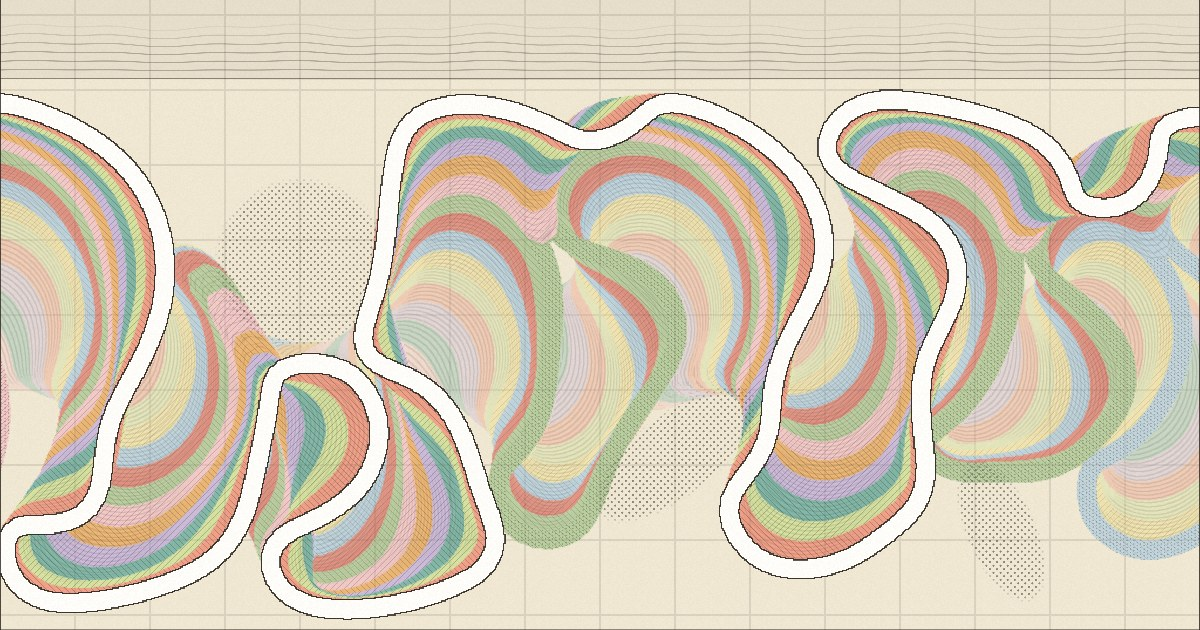
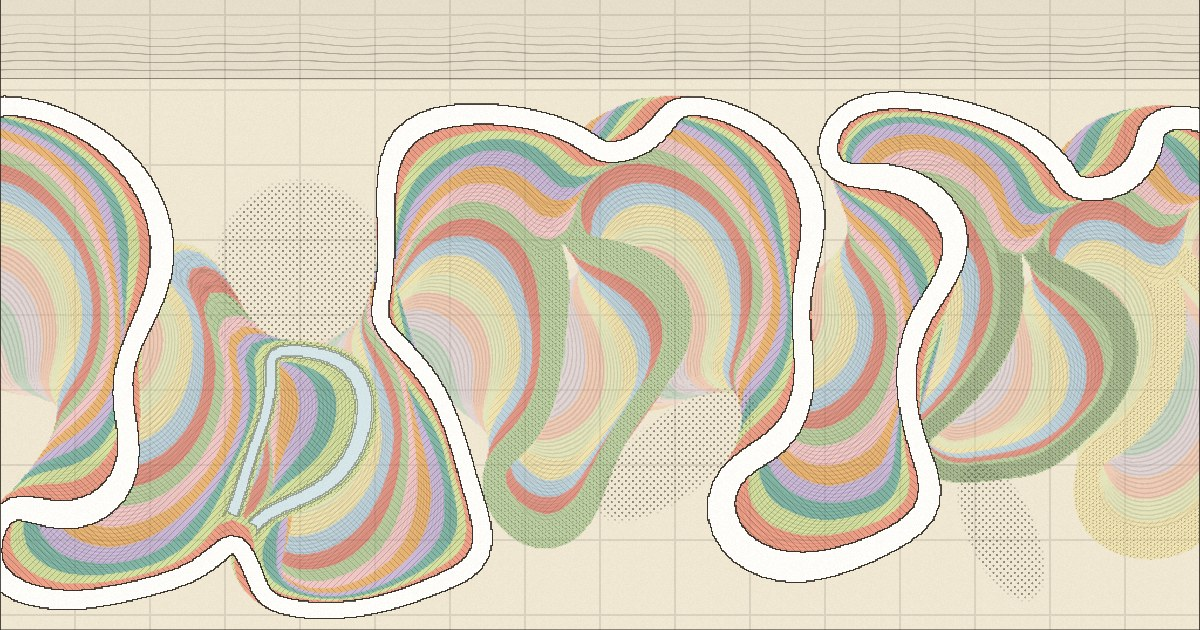
Let No. 022's river widen where its banks move fast
The river's width now changes along its length: it swells at its quick
bends and draws in where a wall, hard ground or a straight reach holds
it, after Eke and others (2014). Cut-offs, hard ground and old loops
use the width.

Changed region(s): [[0.0, 0.1206, 1.0, 0.9952]]

diff --git a/works/022/river.js b/works/022/river.js
@@ -37,6 +37,7 @@
     stiff: 0.1,      // and how fast it cuts the hard ground a valley starts with
     bend: 9.5,       // a river's bends come about this many widths apart, divided by alpha
     pace: 1,         // see kl in character()
+    widest: 2.1,     // a river is never drawn wider than this many of its usual widths
   };
 
   // a small seeded generator (mulberry32)
@@ -103,6 +104,8 @@
       const rx = lam * (0.16 + 0.34 * r()), px = C.long * (0.06 + 0.88 * r()), [top, bottom] = walls(C, px);
       C.hard.push([px, (top + bottom) / 2 + (top - bottom) / 2 * 0.7 * (r() * 2 - 1), rx, rx * (0.4 + 0.6 * r()), r() * Math.PI]);
     }
+    // how much the river widens where its banks move fast: 0 would be the same width everywhere
+    C.swell = 0.5 + 0.7 * r();
     return C;
   }
 
@@ -111,11 +114,13 @@
     const size = C.long <= 62 ? 'A broad river' : C.long >= 98 ? 'A small river' : 'A river';
     const has = [];
     if (C.alpha <= 0.62) has.push('long, sweeping bends'); else if (C.alpha >= 1.02) has.push('tight bends');
+    if (C.swell >= 0.97) has.push('wide bends');
     if (C.age <= 1.65) has.push('slow banks'); else if (C.age >= 2.45) has.push('restless banks');
     const quick = C.neck > 1.6 ? (has.length ? ', quick to cut its loops off,' : ' that is quick to cut its loops off,') : '';
     const valley = C.half <= 0.8 * C.lam ? 'a narrow valley' : C.half >= 1.9 * C.lam ? 'a wide valley' : 'its valley';
     const n = Math.min(4, C.hard.length), hard = n ? ` with ${['', 'one patch', 'two patches', 'three patches', 'four patches'][n]} of hard ground` : '';
-    return `${size}${has.length ? ' with ' + has.join(' and ') : ''}${quick} in ${valley}${hard}.`;
+    const list = has.length > 2 ? has.slice(0, -1).join(', ') + ' and ' + has[has.length - 1] : has.join(' and ');
+    return `${size}${has.length ? ' with ' + list : ''}${quick} in ${valley}${hard}.`;
   }
 
   // the valley's two walls at a place along it: [upper, lower], measured from the sheet's middle line
@@ -134,6 +139,9 @@
     let x = new Float64Array(cap), y = new Float64Array(cap);
     let nx = new Float64Array(cap), ny = new Float64Array(cap);
     let r0 = new Float64Array(cap), r1 = new Float64Array(cap), ds = new Float64Array(cap);
+    // how wide the river is at each point, in its usual widths: it starts at its narrowest
+    const rest = 1 - 0.25 * C.swell;
+    let wd = new Float64Array(cap).fill(rest), nw = new Float64Array(cap);
 
     // down the middle of its valley, nearly: a few long, low waves of chance
     const waves = [];
@@ -148,8 +156,9 @@
       y[i] = (a + b) / 2 + C.rough * (C.lam / 13) * v / total * 2 * smooth(0, 8, s) * smooth(0, 8, span - s);
     }
 
-    // a grid of cells one neck wide, to find reaches that have come together
-    const gx0 = -C.lead - 20, gy0 = -C.wide / 2 - 10, gw = Math.ceil((span + 40) / C.neck), gh = Math.ceil((C.wide + 20) / C.neck);
+    // a grid of cells as wide as the farthest two reaches can be and still count as touching
+    const reachOf = C.neck * C.widest;
+    const gx0 = -C.lead - 20, gy0 = -C.wide / 2 - 10, gw = Math.ceil((span + 40) / reachOf), gh = Math.ceil((C.wide + 20) / reachOf);
     const head = new Int32Array(gw * gh);
     let next = new Int32Array(cap);
     // and a grid of half-width cells that remembers where a cut-off loop lies, and since when
@@ -181,6 +190,7 @@
       const bigger = (a) => { const b = new Float64Array(cap); b.set(a); return b; };
       x = bigger(x); y = bigger(y); nx = new Float64Array(cap); ny = new Float64Array(cap);
       r0 = new Float64Array(cap); r1 = new Float64Array(cap); ds = new Float64Array(cap);
+      wd = bigger(wd); nw = new Float64Array(cap);
       next = new Int32Array(cap);
     }
 
@@ -214,20 +224,29 @@
       for (let i = 1; i < n - 1; i++) {
         const tx = x[i + 1] - x[i - 1], ty = y[i + 1] - y[i - 1], l = Math.hypot(tx, ty) || 1;
         const sign = r1[i] < 0 ? -1 : 1, ox = sign * ty / l, oy = -sign * tx / l;
-        // the bank being cut is three quarters of a width that way: how soft is it there?
-        let go = Math.abs(r1[i]) * soft(x[i] + ox * 0.75, y[i] + oy * 0.75);
+        // the bank being cut is a quarter of a width beyond the water's edge that way: how soft is it there?
+        const edge = wd[i] * 0.5;
+        let go = Math.abs(r1[i]) * soft(x[i] + ox * (edge + 0.25), y[i] + oy * (edge + 0.25));
         // the valley's walls: a bank cutting toward one slows to nothing
         if (oy !== 0) {
           const [a, b] = walls(C, x[i]);
-          go *= smooth(0, 3, oy > 0 ? a - y[i] : y[i] - b);
+          go *= smooth(0, 3, (oy > 0 ? a - y[i] : y[i] - b) - (edge - 0.5));
         }
         if (go > fastest) fastest = go;
+        // the river widens where a bank is cut faster than the far bank can build out, and
+        // narrows again where it is held: it leans toward the width that its speed asks for
+        const want = rest + 1.3 * C.swell * smooth(0, 0.24 * C.kl, go);
+        nw[i] = wd[i] + (want - wd[i]) * Math.min(1, dt * C.kl / 3);
         nx[i] = x[i] + ox * go * dt;
         ny[i] = y[i] + oy * go * dt;
         const ci = clayAt(x[i], y[i]);
         if (ci >= 0) clay[ci] = -1;       // where the river runs, it has taken the clay away
       }
       for (let i = 1; i < n - 1; i++) { x[i] = nx[i]; y[i] = ny[i]; }
+      // and its width changes smoothly along it
+      for (let i = 1; i < n - 1; i++) wd[i] = Math.min(C.widest, Math.max(0.6, nw[i]));
+      for (let i = 1; i < n - 1; i++) nw[i] = wd[i] + 0.22 * (wd[i - 1] - 2 * wd[i] + wd[i + 1]);
+      for (let i = 1; i < n - 1; i++) wd[i] = nw[i];
       // take out kinks a point or two long, which the rule above cannot see
       const q = C.iron;
       for (let i = 2; i < n - 2; i++) {
@@ -241,7 +260,7 @@
     // two have closed up
     function space() {
       let m = 0;
-      nx[m] = x[0]; ny[m] = y[0]; m++;
+      nx[m] = x[0]; ny[m] = y[0]; nw[m] = wd[0]; m++;
       for (let i = 1; i < n; i++) {
         const px = nx[m - 1], py = ny[m - 1];
         const d = Math.hypot(x[i] - px, y[i] - py);
@@ -255,33 +274,35 @@
             nx[m] = (-x[i0] + 9 * x[i - 1] + 9 * x[i] - x[i3]) / 16;
             ny[m] = (-y[i0] + 9 * y[i - 1] + 9 * y[i] - y[i3]) / 16;
           } else { nx[m] = (px + x[i]) / 2; ny[m] = (py + y[i]) / 2; }
+          nw[m] = (nw[m - 1] + wd[i]) / 2;
           m++;
         }
         if (m + 1 >= cap) return false;
-        nx[m] = x[i]; ny[m] = y[i]; m++;
+        nx[m] = x[i]; ny[m] = y[i]; nw[m] = wd[i]; m++;
       }
-      for (let i = 0; i < m; i++) { x[i] = nx[i]; y[i] = ny[i]; }
+      for (let i = 0; i < m; i++) { x[i] = nx[i]; y[i] = ny[i]; wd[i] = nw[i]; }
       n = m;
       return true;
     }
 
-    // find the first place two reaches touch, and take the short way
+    // find the first place two reaches touch, and take the short way. Two points touch when
+    // they are within C.neck of the mean of the river's widths at them, and the river runs
+    // some way between them: a tight bend is not a neck.
     function cut() {
-      // two points close together are a neck only if the river runs some way between them
-      const near = C.neck * C.neck, far = (3 + 2.2 * C.neck) / C.h;
       for (let again = 0; again < 8; again++) {
         head.fill(-1);
         let a = -1, b = -1;
         for (let i = 0; i < n && a < 0; i++) {
-          const cx = Math.max(0, Math.min(gw - 1, Math.floor((x[i] - gx0) / C.neck)));
-          const cy = Math.max(0, Math.min(gh - 1, Math.floor((y[i] - gy0) / C.neck)));
-          let best = near;
+          const cx = Math.max(0, Math.min(gw - 1, Math.floor((x[i] - gx0) / reachOf)));
+          const cy = Math.max(0, Math.min(gh - 1, Math.floor((y[i] - gy0) / reachOf)));
+          let best = 1;
           for (let dy = -1; dy <= 1; dy++) for (let dx = -1; dx <= 1; dx++) {
             const gx = cx + dx, gy = cy + dy;
             if (gx < 0 || gy < 0 || gx >= gw || gy >= gh) continue;
             for (let j = head[gy * gw + gx]; j >= 0; j = next[j]) {
-              if (i - j <= far) continue;
-              const d = (x[i] - x[j]) * (x[i] - x[j]) + (y[i] - y[j]) * (y[i] - y[j]);
+              const near = C.neck * (wd[i] + wd[j]) / 2;
+              if (i - j <= (3 + 2.2 * near) / C.h) continue;
+              const d = ((x[i] - x[j]) * (x[i] - x[j]) + (y[i] - y[j]) * (y[i] - y[j])) / (near * near);
               if (d < best) { best = d; a = j; b = i; }
             }
           }
@@ -289,21 +310,24 @@
           next[i] = head[cell]; head[cell] = i;
         }
         if (a < 0) break;
-        cuts.push({ year, x: Float32Array.from(x.subarray(a, b + 1)), y: Float32Array.from(y.subarray(a, b + 1)) });
+        cuts.push({ year, x: Float32Array.from(x.subarray(a, b + 1)), y: Float32Array.from(y.subarray(a, b + 1)), w: Float32Array.from(wd.subarray(a, b + 1)) });
         // clay begins to settle in the loop left behind, away from its two ends
-        for (let i = a + 4; i < b - 3; i++) for (let dy = -1; dy <= 1; dy++) for (let dx = -1; dx <= 1; dx++) {
-          if (dx && dy) continue;
-          const ci = clayAt(x[i] + dx * 0.5, y[i] + dy * 0.5);
-          if (ci >= 0) clay[ci] = year;
+        for (let i = a + 4; i < b - 3; i++) {
+          const R = Math.ceil(wd[i]);
+          for (let dy = -R; dy <= R; dy++) for (let dx = -R; dx <= R; dx++) {
+            if (dx * dx + dy * dy > R * R) continue;
+            const ci = clayAt(x[i] + dx * 0.5, y[i] + dy * 0.5);
+            if (ci >= 0) clay[ci] = year;
+          }
         }
-        x.copyWithin(a + 1, b, n); y.copyWithin(a + 1, b, n);
+        x.copyWithin(a + 1, b, n); y.copyWithin(a + 1, b, n); wd.copyWithin(a + 1, b, n);
         n -= b - a - 1;
       }
     }
 
     return {
       C,
-      get n() { return n; }, get x() { return x; }, get y() { return y; },
+      get n() { return n; }, get x() { return x; }, get y() { return y; }, get w() { return wd; },
       get year() { return year; }, get length() { return length; }, cuts, soft,
       // the most any point has moved in a year
       get fastest() { return fastest; },
@@ -376,14 +400,15 @@
       }
     }
 
-    // the channel as a ribbon `half` widths to each side of the line through (x, y)
-    function ribbon(x, y, n, half) {
+    // the channel as a ribbon: at each point of the line through (x, y), `part` of half the
+    // river's width there to each side
+    function ribbon(x, y, w, n, part) {
       const per = C.per, oy = C.wide / 2;
       let lx = 0, ly = 0, rx = 0, ry = 0;
       for (let i = 0; i < n; i++) {
         const i0 = i > 0 ? i - 1 : 0, i1 = i < n - 1 ? i + 1 : n - 1;
         const tx = x[i1] - x[i0], ty = y[i1] - y[i0], l = Math.hypot(tx, ty) || 1;
-        const ox = -ty / l * half, oyv = tx / l * half;
+        const half = 0.5 * w[i] * part, ox = -ty / l * half, oyv = tx / l * half;
         const Lx = (x[i] + ox) * per, Ly = (y[i] + oyv + oy) * per, Rx = (x[i] - ox) * per, Ry = (y[i] - oyv + oy) * per;
         if (i > 0 && !(Math.max(Lx, Rx, lx, rx) < 0 || Math.min(Lx, Rx, lx, rx) > cols || Math.max(Ly, Ry, ly, ry) < 0 || Math.min(Ly, Ry, ly, ry) > rows)) {
           tri(lx, ly, Lx, Ly, Rx, Ry);
@@ -397,14 +422,14 @@
       cols, rows,
       get head() { return head; }, get pool() { return pool; },
       // the river as it is at this look
-      stamp(n, x, y, points) {
+      stamp(n, x, y, w, points) {
         look = n; prev = n === 0 ? NONE : n - 1; marking = false;
-        ribbon(x, y, points, 0.5);
+        ribbon(x, y, w, points, 1);
       },
       // a loop just cut off: mark its cells, in bands from the banks to the middle
-      abandon(n, x, y) {
+      abandon(n, x, y, w) {
         look = n; marking = true;
-        for (band = 1; band <= C.fill; band++) ribbon(x, y, x.length, 0.5 * (C.fill - band + 1) / C.fill);
+        for (band = 1; band <= C.fill; band++) ribbon(x, y, w, x.length, (C.fill - band + 1) / C.fill);
         marking = false;
       },
       // after the last look: close every visit, and gather each cell's visits together
@@ -437,7 +462,7 @@
     const stats = { winding: new Float32Array(looks + 1), cuts: new Uint16Array(looks + 1) };
     let cutsDone = 0, onSheet = 0;
     const inSheet = (c) => { for (let i = 0; i < c.x.length; i++) if (c.x[i] > 0 && c.x[i] < C.long && Math.abs(c.y[i]) < C.wide / 2) return true; return false; };
-    sheet.stamp(0, ch.x, ch.y, ch.n);
+    sheet.stamp(0, ch.x, ch.y, ch.w, ch.n);
     stats.winding[0] = ch.winding;
     return {
       seed, C, channel: ch, sheet, stats, looks,
@@ -453,10 +478,10 @@
             const c = ch.cuts[cutsDone++];
             c.sheet = inSheet(c);
             if (c.sheet) onSheet++;
-            sheet.abandon(n, c.x, c.y);
+            sheet.abandon(n, c.x, c.y, c.w);
           }
           if (ch.year % C.every === 0) {
-            sheet.stamp(n, ch.x, ch.y, ch.n);
+            sheet.stamp(n, ch.x, ch.y, ch.w, ch.n);
             stats.winding[n] = ch.winding; stats.cuts[n] = onSheet;
           }
           if (ch.year >= C.years) { sheet.finish(); return false; }

diff --git a/works/022/index.html b/works/022/index.html
@@ -270,7 +270,7 @@
         "@id": "https://mahiryavuz.com/#website"
       },
       "image": "https://mahiryavuz.com/works/022/og.jpg",
-      "description": "A river seen from above that moves across its valley for 2,000 years, eating its outer banks and cutting off its own loops, and inks the ground it leaves in the color of that century, the way Harold Fisk’s 1944 maps of the Mississippi show its old courses; drag the years back along the rail, point at a piece of ground to see when the river left it and where it ran that year, or open another river: every number from 1 to 99,999 draws one of its own, broad or small, slow or restless, in a valley with its own shape and its own patches of hard ground.",
+      "description": "A river seen from above that moves across its valley for 2,000 years, eating its outer banks, widening at its quickest bends and cutting off its own loops, and inks the ground it leaves in the color of that century, the way Harold Fisk’s 1944 maps of the Mississippi show its old courses; drag the years back along the rail, point at a piece of ground to see when the river left it and where it ran that year, or open another river: every number from 1 to 99,999 draws one of its own, broad or small, slow or restless, in a valley with its own shape and its own patches of hard ground.",
       "artMedium": "WebGL and a river simulation"
     },
     {
@@ -312,7 +312,7 @@
       <div class="where">
         <p class="status" id="status" role="status">This is a kept river: No. 3, in its year 2,000. With scripts on, the page runs a new river and plays its years.</p>
         <h2 class="year" id="year">Year 2,000</h2>
-        <p class="scalebar"><span class="scale" id="scale"></span><span>ten widths of the river</span></p>
+        <p class="scalebar"><span class="scale" id="scale"></span><span>ten of the river’s usual widths</span></p>
       </div>
 
       <div class="map">
@@ -359,8 +359,8 @@
       <div class="in">
         <div>
           <h2>What this is</h2>
-          <p>A river seen from above, in its valley. Each year every part of the river moves a little, toward the outside of its bend. The ground it gives up is inked in the color of the century in which it left, and printed paler as it ages. When the two sides of a loop come together, the river takes the short way; the loop keeps its water for a while and then closes up.</p>
-          <p>Nothing is stored. The number in the address is where the chance comes from, and it decides two things. One is the river’s character: how big it is on the sheet, how far upstream its bends take their lead from, how fast its banks move, how soon it cuts a loop off, the shape of its valley, and where the ground is hard. The other is the few low bends it starts with. The rest follows from the rule, and the same number always draws the same river.</p>
+          <p>A river seen from above, in its valley. Each year every part of the river moves a little, toward the outside of its bend. It is widest where its banks are moving fastest, and narrow where they are held. The ground it gives up is inked in the color of the century in which it left, and printed paler as it ages. When the two sides of a loop come together, the river takes the short way; the loop keeps its water for a while and then closes up.</p>
+          <p>Nothing is stored. The number in the address is where the chance comes from, and it decides two things. One is the river’s character: how big it is on the sheet, how far upstream its bends take their lead from, how fast its banks move, how much it widens at its bends, how soon it cuts a loop off, the shape of its valley, and where the ground is hard. The other is the few low bends it starts with. The rest follows from the rule, and the same number always draws the same river.</p>
         </div>
         <div>
           <h2>Fisk’s maps</h2>
@@ -370,13 +370,14 @@
         <div>
           <h2>The rule</h2>
           <p>It is the model of Alan Howard and Thomas Knutson, <a href="https://doi.org/10.1029/WR020i011p01659">“Sufficient conditions for river meandering: A simulation approach”</a>, 1984. A bank moves faster the tighter its bend, and fastest where the bend’s radius is about three widths of the river; in a tighter bend than that it slows again. And a bend is not moved by its own shape alone: each point moves by an average of the bends upstream of it, the near ones counting most. That second part is what makes bends lean downstream and grow into loops. The paper’s title says what it found: these two things are enough.</p>
+          <p>A river is not the same width all along. Where one bank is cut away faster than the other can build out behind it, the river widens. Esther Eke and others <a href="https://doi.org/10.1017/jfm.2014.556">modeled that in 2014</a>, and note that rivers which are wider at their bends tend to be the ones that move fastest. Here the width at each place leans toward what the bank’s speed there asks for, so a river swells at its quick bends and draws in where a wall, hard ground or a straight reach holds it.</p>
           <p>The ground is not all alike. A cut-off loop fills with fine clay, and set clay is slow to cut: Fisk reported in 1947 that such plugs hold the Mississippi’s bends back, and Tao Sun and others put them into <a href="https://doi.org/10.1029/96WR00998">a model like this one</a> in 1996. So here a river’s old loops get in the way of its new ones. Some valleys also start with patches of hard ground, which a bank cuts at a tenth of the usual rate.</p>
           <p>The whole 2,000 years are worked out in about a second when the page opens. What you watch is that record played back, which is why the years can be dragged back along the rail, and why pointing at a piece of ground can say when the river left it.</p>
         </div>
         <div>
           <h2>What it leaves out</h2>
-          <p>Floods. The short cuts a river makes across the inside of a bend, which Fisk’s sheets mark as chute cut-offs: here a loop is cut off when its two sides come within a set distance, which for most rivers means touching. And a river that gives up its whole course for a new one, as the Mississippi has done.</p>
-          <p>The paper’s own text could not be opened while this page was made. The rule here follows its abstract and <a href="https://github.com/zsylvester/meanderpy">meanderpy</a>, Zoltán Sylvester’s open program built on it, from which the two weights (−1 on a point’s own bend, 2.5 on the bends upstream) are taken. The rest are this page’s choices: how fast a tight bend slows, how long a cut-off loop holds water (about 400 years at its middle), how long its clay takes to set (150 years) and how slow it then is to cut (a fifth of the usual rate), and the range each river’s character is drawn from. So is the clock: the years are years because the fastest bank on any of these rivers moves about a sixteenth of the river’s width in one, and most move far less.</p>
+          <p>Floods. Islands and bars. The short cuts a river makes across the inside of a bend, which Fisk’s sheets mark as chute cut-offs: here a loop is cut off when its two sides come within a set distance, which for most rivers means touching. And a river that gives up its whole course for a new one, as the Mississippi has done.</p>
+          <p>The paper’s own text could not be opened while this page was made. The rule here follows its abstract and <a href="https://github.com/zsylvester/meanderpy">meanderpy</a>, Zoltán Sylvester’s open program built on it, from which the two weights (−1 on a point’s own bend, 2.5 on the bends upstream) are taken. The rest are this page’s choices: how fast a tight bend slows, how much wider a fast bank makes the river (at most about twice its usual width), how long a cut-off loop holds water (about 400 years at its middle), how long its clay takes to set (150 years) and how slow it then is to cut (a fifth of the usual rate), and the range each river’s character is drawn from. So is the clock: the years are years because the fastest bank on any of these rivers moves about a twentieth of the river’s usual width in one, and most move far less.</p>
         </div>
         <div class="wide">
           <h2>One river, kept</h2>
@@ -384,7 +385,7 @@
           <div class="scroll">
 <!-- river -->
 <table>
-<caption>River No. 3. A broad river in its valley with three patches of hard ground. The sheet is 62 of its widths long. Its length is given in lengths of its valley. Loops cut off on the sheet, in order, in years 1,103, 1,362, 1,387, 1,479.</caption>
+<caption>River No. 3. A broad river in its valley with three patches of hard ground. The sheet is 62 of its usual widths long. Its length is given in lengths of its valley. Loops cut off on the sheet, in order, in years 1,033, 1,347, 1,372, 1,874.</caption>
 <thead><tr><th>Year</th><th>Length</th><th>Loops cut off so far</th></tr></thead>
 <tbody>
 <tr><td>0</td><td>1.0</td><td>0</td></tr>
@@ -392,12 +393,12 @@
 <tr><td>400</td><td>1.3</td><td>0</td></tr>
 <tr><td>600</td><td>1.8</td><td>0</td></tr>
 <tr><td>800</td><td>2.4</td><td>0</td></tr>
-<tr><td>1,000</td><td>3.1</td><td>0</td></tr>
+<tr><td>1,000</td><td>2.8</td><td>0</td></tr>
 <tr><td>1,200</td><td>2.9</td><td>1</td></tr>
 <tr><td>1,400</td><td>2.8</td><td>3</td></tr>
-<tr><td>1,600</td><td>2.7</td><td>4</td></tr>
-<tr><td>1,800</td><td>2.5</td><td>4</td></tr>
-<tr><td>2,000</td><td>2.8</td><td>4</td></tr>
+<tr><td>1,600</td><td>2.7</td><td>3</td></tr>
+<tr><td>1,800</td><td>2.9</td><td>3</td></tr>
+<tr><td>2,000</td><td>2.6</td><td>4</td></tr>
 </tbody>
 </table>
 <!-- /river -->

diff --git a/works/022/_test.js b/works/022/_test.js
@@ -52,6 +52,26 @@ const onSheet = ch.cuts.filter((c) => c.sheet);
 assert(onSheet.length >= 2, 'loops cut off on the sheet: ' + onSheet.length);
 assert(Math.max(...run.stats.winding) > 1.6 && run.stats.winding[0] < 1.1, 'it starts nearly straight and winds');
 
+// its width changes along it, within bounds, and the sheet's water is as wide as the river says
+let narrow = 9, wide = 0;
+for (let i = 0; i < ch.n; i++) {
+  assert(ch.w[i] >= 0.6 - 1e-9 && ch.w[i] <= P.widest + 1e-9, 'a width of ' + ch.w[i]);
+  if (ch.x[i] > 0 && ch.x[i] < C.long) { narrow = Math.min(narrow, ch.w[i]); wide = Math.max(wide, ch.w[i]); }
+}
+assert(wide - narrow > 0.3, 'the river is between ' + narrow.toFixed(2) + ' and ' + wide.toFixed(2) + ' wide');
+const waterAt = (px, py) => { const c = Math.floor(px * C.per), r = Math.floor((py + C.wide / 2) * C.per); if (c < 0 || r < 0 || c >= sh.cols || r >= sh.rows) return null; const v = sh.visits(c, r); return v.length > 0 && v[v.length - 1].to === looks; };
+let edges = 0, right = 0;
+for (let i = 6; i < ch.n - 6; i += 4) {
+  if (ch.x[i] < 3 || ch.x[i] > C.long - 3) continue;
+  const tx = ch.x[i + 1] - ch.x[i - 1], ty = ch.y[i + 1] - ch.y[i - 1], l = Math.hypot(tx, ty);
+  for (const side of [-1, 1]) {
+    const inside = waterAt(ch.x[i] - side * ty / l * ch.w[i] * 0.35, ch.y[i] + side * tx / l * ch.w[i] * 0.35);
+    if (inside === null) continue;
+    edges++; if (inside) right++;
+  }
+}
+assert(edges > 30 && right / edges > 0.97, 'water where the river is wide: ' + right + ' of ' + edges);
+
 // hard ground is slow to cut, and so is a cut-off loop once its clay has set
 assert(C.hard.length > 0, 'the kept river has hard ground to show');
 const k = C.hard[0];
@@ -64,12 +84,12 @@ while (late.year < loop.year + C.set / 2) late.step();
 const half = late.soft(loop.x[mid], loop.y[mid]);
 assert(fresh > 0.95 && half < fresh && half >= C.plug, 'clay sets in a loop: ' + fresh.toFixed(2) + ' then ' + half.toFixed(2));
 
-// index.html says the fastest bank anywhere moves about a sixteenth of a width a year
+// index.html says the fastest bank anywhere moves about a twentieth of a width a year
 let fastest = 0;
 P.cols = 384; P.rows = 240;
 for (let s = 1; s <= 60; s++) { const r = River.Run(s); r.more(); fastest = Math.max(fastest, r.channel.fastest); }
 P.cols = 1536; P.rows = 960;
-assert(fastest > 0.04 && fastest < 0.075, 'fastest bank, widths a year: ' + fastest);
+assert(fastest > 0.035 && fastest < 0.065, 'fastest bank, widths a year: ' + fastest);
 
 // every cell's visits are in order, and none overlap
 let most = 0, ponds = 0;

diff --git a/works/works.js b/works/works.js
@@ -96,7 +96,7 @@ window.Works = (() => {
     },
     {
       n: 22, title: 'A river, and where it has been', date: '2026-11-23', medium: 'WebGL and a river simulation',
-      about: 'A river seen from above that moves across its valley for 2,000 years, eating its outer banks and cutting off its own loops, and inks the ground it leaves in the color of that century, the way Harold Fisk’s 1944 maps of the Mississippi show its old courses; drag the years back along the rail, point at a piece of ground to see when the river left it and where it ran that year, or open another river: every number from 1 to 99,999 draws one of its own, broad or small, slow or restless, in a valley with its own shape and its own patches of hard ground.',
+      about: 'A river seen from above that moves across its valley for 2,000 years, eating its outer banks, widening at its quickest bends and cutting off its own loops, and inks the ground it leaves in the color of that century, the way Harold Fisk’s 1944 maps of the Mississippi show its old courses; drag the years back along the rail, point at a piece of ground to see when the river left it and where it ran that year, or open another river: every number from 1 to 99,999 draws one of its own, broad or small, slow or restless, in a valley with its own shape and its own patches of hard ground.',
     },
   ];
 

diff --git a/works/022/_static.js b/works/022/_static.js
@@ -18,7 +18,7 @@ function table() {
   }
   return [
     '<table>',
-    `<caption>River No. ${KEPT}. ${River.describe(C)} The sheet is ${C.long} of its widths long. Its length is given in lengths of its valley. Loops cut off on the sheet, in order, in years ${cuts.map(fmt).join(', ').replace(/, ([^,]*)$/, ' and $1')}.</caption>`,
+    `<caption>River No. ${KEPT}. ${River.describe(C)} The sheet is ${C.long} of its usual widths long. Its length is given in lengths of its valley. Loops cut off on the sheet, in order, in years ${cuts.map(fmt).join(', ').replace(/, ([^,]*)$/, ' and $1')}.</caption>`,
     '<thead><tr><th>Year</th><th>Length</th><th>Loops cut off so far</th></tr></thead>',
     '<tbody>', ...rows, '</tbody>', '</table>',
   ].join('\n');

diff --git a/works/022/main.js b/works/022/main.js
@@ -63,7 +63,7 @@
     shown = r;
     painter.sheet(r.sheet, r.C);
     cuts = r.channel.cuts.filter((c) => c.sheet).map((c) => c.year);
-    $('status').textContent = `No. ${seed}. ${River.describe(r.C)} The sheet is ${r.C.long} of its widths long.`;
+    $('status').textContent = `No. ${seed}. ${River.describe(r.C)} The sheet is ${r.C.long} of its usual widths long.`;
     rule();
     $('again').disabled = false;
     probe = null; hide();

diff --git a/works/README.md b/works/README.md
@@ -55,7 +55,7 @@ After changing `frozen.js` or the rules, run `node works/021/_static.js`, which 
 
 ## No. 022's river
 
-No. 022 runs a river for 2,000 years and inks the ground it leaves, a color for each hundred years. Nothing is stored: the number in the address (`/works/022/#48213`, 1 to 99,999) is a seed, and `river.js` turns it into a river, so a number always draws the same one. The number decides two things. `character` draws what the river has of its own: how big it is on the sheet (the sheet is 48 to 127 of its widths long), how far upstream its bends take their lead from (`alpha`), how soon it cuts a loop off (`neck`), how many times over it could have grown and cut a loop in its 2,000 years (`age`, from which the migration constant `kl` follows by a sum fitted to timed runs), its valley (`half`, `off` and the nine `waves` that `walls` adds up) and up to four ovals of hard ground. `describe` says that in a sentence. `Channel` is the river: a line of points that each move sideways a little every year, by the rule of Howard and Knutson (1984) as the file's opening comment tells it; a bank slows to nothing at a valley wall, cuts hard ground at a tenth of the usual rate, and cuts the clay that sets in a cut-off loop at a fifth (`soft`). `Sheet` is what remembers: a grid of cells, each with the list of times the river was on it, and for a cut-off loop how near its middle a cell was. `Run` does both for a whole river in half a second to a second, in slices so the page stays awake. What every river shares is in `P` at the top; neither part touches the DOM. Because the whole run is worked out first and every cell keeps its years, `draw.js`, a WebGL 2 shader, can draw the map of any year, which is what lets the years be dragged back along the rail and lets a piece of ground say when the river left it. The shader adds up the valley's walls and ovals by the same sums as `river.js`: change one and change the other. The twenty inks are `INKS` at the top of `draw.js`; `main.js` is the page. Changing `P`, `character` or the rule changes the river every number draws.
+No. 022 runs a river for 2,000 years and inks the ground it leaves, a color for each hundred years. Nothing is stored: the number in the address (`/works/022/#48213`, 1 to 99,999) is a seed, and `river.js` turns it into a river, so a number always draws the same one. The number decides two things. `character` draws what the river has of its own: how big it is on the sheet (the sheet is 48 to 127 of its widths long), how far upstream its bends take their lead from (`alpha`), how soon it cuts a loop off (`neck`), how much it widens where its banks move fast (`swell`), how many times over it could have grown and cut a loop in its 2,000 years (`age`, from which the migration constant `kl` follows by a sum fitted to timed runs), its valley (`half`, `off` and the nine `waves` that `walls` adds up) and up to four ovals of hard ground. `describe` says that in a sentence. `Channel` is the river: a line of points that each move sideways a little every year, by the rule of Howard and Knutson (1984) as the file's opening comment tells it; a bank slows to nothing at a valley wall, cuts hard ground at a tenth of the usual rate, and cuts the clay that sets in a cut-off loop at a fifth (`soft`). Each point also has a width, which leans toward what the bank's speed there asks for, so the river is drawn wider at its quick bends and narrower where it is held; two reaches count as touching by their widths. `Sheet` is what remembers: a grid of cells, each with the list of times the river was on it, and for a cut-off loop how near its middle a cell was. `Run` does both for a whole river in half a second to a second, in slices so the page stays awake. What every river shares is in `P` at the top; neither part touches the DOM. Because the whole run is worked out first and every cell keeps its years, `draw.js`, a WebGL 2 shader, can draw the map of any year, which is what lets the years be dragged back along the rail and lets a piece of ground say when the river left it. The shader adds up the valley's walls and ovals by the same sums as `river.js`: change one and change the other. The twenty inks are `INKS` at the top of `draw.js`; `main.js` is the page. Changing `P`, `character` or the rule changes the river every number draws.
 
 After such a change, run `node works/022/_static.js`, which writes river No. 3 into `index.html` as a table for readers without scripts (`KEPT` at its top picks the river), then `node works/022/_test.js`, and render `still.jpg` (the picture for readers without scripts, 1600 × 1000) and `og.jpg` (1200 × 630) again, both from `?still&bare#3`. To see many rivers at once, screenshot `?still&bare#N` for a run of numbers: the point of the characters is that a dozen in a row look like a dozen rivers. The notes on the page quote a few of the numbers by hand (the fastest a bank moves on any river, how long a cut-off loop holds water, how long clay takes to set and how slow it is to cut), so read them again too; the test checks the first. The page takes `?still` for the last year at once, `?year=1240` to stop at a year and `?bare` for the sheet alone, filling the window. The Action does not run any of this.
 
